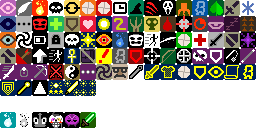
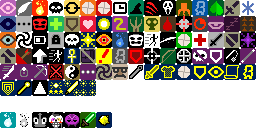
2.2: implemented t1 cleric spell, metaexpression

Changed region(s): [[0.375, 0.875, 0.4375, 1.0]]

diff --git a/core/src/main/java/com/zrp200/rkpd2/actors/hero/spells/Metaexpression.java b/core/src/main/java/com/zrp200/rkpd2/actors/hero/spells/Metaexpression.java
@@ -1,0 +1,118 @@
+package com.zrp200.rkpd2.actors.hero.spells;
+
+import com.zrp200.rkpd2.Assets;
+import com.zrp200.rkpd2.Dungeon;
+import com.zrp200.rkpd2.actors.buffs.Buff;
+import com.zrp200.rkpd2.actors.buffs.FlavourBuff;
+import com.zrp200.rkpd2.actors.hero.Hero;
+import com.zrp200.rkpd2.actors.hero.Talent;
+import com.zrp200.rkpd2.effects.Enchanting;
+import com.zrp200.rkpd2.items.Generator;
+import com.zrp200.rkpd2.items.artifacts.HolyTome;
+import com.zrp200.rkpd2.items.trinkets.Trinket;
+import com.zrp200.rkpd2.messages.Messages;
+import com.zrp200.rkpd2.ui.BuffIndicator;
+import com.zrp200.rkpd2.ui.HeroIcon;
+import com.zrp200.rkpd2.utils.GLog;
+import com.watabou.noosa.audio.Sample;
+import com.watabou.utils.Bundle;
+
+import java.util.Arrays;
+import java.util.List;
+
+public class Metaexpression extends ClericSpell {
+
+    public static final Metaexpression INSTANCE = new Metaexpression();
+
+    public static final int DURATION = 100;
+
+    @Override
+    public int icon() {
+        return HeroIcon.METAEXPRESSION;
+    }
+
+    @Override
+    public void tintIcon(HeroIcon icon) {
+        // todo actual icon
+        if (SpellEmpower.isActive()) icon.tint(0, .33f);
+    }
+
+    @Override
+    public float chargeUse(Hero hero) {
+        return 1 + hero.pointsInTalent(Talent.METAEXPRESSION);
+    }
+
+    @Override
+    public boolean canCast(Hero hero) {
+        return super.canCast(hero) && hero.hasTalent(Talent.METAEXPRESSION);
+    }
+
+    @Override
+    protected List<Object> getDescArgs() {
+        int talentLvl = Dungeon.hero.pointsInTalent(Talent.METAEXPRESSION);
+        if (SpellEmpower.isActive())
+            talentLvl += 2;
+        return Arrays.asList(talentLvl, DURATION);
+    }
+
+    @Override
+    public void onCast(HolyTome tome, Hero hero) {
+        Trinket coolTrinket = (Trinket) Generator.random(Generator.Category.TRINKET);
+        coolTrinket.level(hero.pointsInTalent(Talent.METAEXPRESSION));
+        if (SpellEmpower.isActive()) {
+            coolTrinket.upgrade(2);
+        }
+        coolTrinket.identify();
+        Buff.detach(hero, TrinketHolder.class);
+        TrinketHolder holder = Buff.affect(hero, TrinketHolder.class, DURATION);
+        holder.trinket = coolTrinket;
+
+        Enchanting.show(hero, coolTrinket);
+        Sample.INSTANCE.play(Assets.Sounds.READ);
+        GLog.p(Messages.get(this, "trinket", Messages.titleCase(coolTrinket.title())));
+
+        hero.spend( 1f );
+        hero.busy();
+        hero.sprite.operate(hero.pos);
+
+        onSpellCast(tome, hero);
+    }
+
+    public static class TrinketHolder extends FlavourBuff {
+
+        {
+            type = buffType.POSITIVE;
+        }
+
+        public Trinket trinket;
+
+        @Override
+        public int icon() {
+            return BuffIndicator.TRINKETHOLD;
+        }
+
+        @Override
+        public float iconFadePercent() {
+            return Math.max(0, (DURATION - visualcooldown()) / DURATION);
+        }
+
+        private static final String TRINKET = "trinket";
+
+        @Override
+        public String desc() {
+            return Messages.get(this, "desc", Messages.titleCase(trinket.title()), trinket.statsDesc(), dispTurns());
+        }
+
+        @Override
+        public void storeInBundle(Bundle bundle) {
+            super.storeInBundle(bundle);
+            bundle.put(TRINKET, trinket);
+        }
+
+        @Override
+        public void restoreFromBundle(Bundle bundle) {
+            super.restoreFromBundle(bundle);
+            trinket = (Trinket) bundle.get(TRINKET);
+        }
+    }
+}

diff --git a/core/src/main/java/com/zrp200/rkpd2/scenes/GameScene.java b/core/src/main/java/com/zrp200/rkpd2/scenes/GameScene.java
@@ -36,10 +36,12 @@ import com.zrp200.rkpd2.actors.Actor;
 import com.zrp200.rkpd2.actors.Char;
 import com.zrp200.rkpd2.actors.blobs.Blob;
 import com.zrp200.rkpd2.actors.buffs.AscensionChallenge;
+import com.zrp200.rkpd2.actors.buffs.Buff;
 import com.zrp200.rkpd2.actors.buffs.ChampionEnemy;
 import com.zrp200.rkpd2.actors.hero.Hero;
 import com.zrp200.rkpd2.actors.hero.HeroClass;
 import com.zrp200.rkpd2.actors.hero.Talent;
+import com.zrp200.rkpd2.actors.hero.spells.Metaexpression;
 import com.zrp200.rkpd2.actors.mobs.DemonSpawner;
 import com.zrp200.rkpd2.actors.mobs.Ghoul;
 import com.zrp200.rkpd2.actors.mobs.Mimic;
@@ -54,6 +56,7 @@ import com.zrp200.rkpd2.effects.Ripple;
 import com.zrp200.rkpd2.effects.SpellSprite;
 import com.zrp200.rkpd2.effects.TargetedCell;
 import com.zrp200.rkpd2.items.Ankh;
+import com.zrp200.rkpd2.items.Generator;
 import com.zrp200.rkpd2.items.Heap;
 import com.zrp200.rkpd2.items.Honeypot;
 import com.zrp200.rkpd2.items.Item;
@@ -62,6 +65,7 @@ import com.zrp200.rkpd2.items.journal.Guidebook;
 import com.zrp200.rkpd2.items.potions.Potion;
 import com.zrp200.rkpd2.items.scrolls.ScrollOfTeleportation;
 import com.zrp200.rkpd2.items.trinkets.DimensionalSundial;
+import com.zrp200.rkpd2.items.trinkets.Trinket;
 import com.zrp200.rkpd2.items.trinkets.TrinketCatalyst;
 import com.zrp200.rkpd2.items.weapon.melee.MeleeWeapon;
 import com.zrp200.rkpd2.journal.Bestiary;
@@ -533,6 +537,15 @@ public class GameScene extends PixelScene {
 					if (ch instanceof DriedRose.GhostHero){
 						((DriedRose.GhostHero) ch).sayAppeared();
 					}
+				}
+				if (!Dungeon.hero.heroClass.is(HeroClass.CLERIC) && Dungeon.hero.hasTalent(Talent.METAEXPRESSION)){
+					Trinket coolTrinket = (Trinket) Generator.random(Generator.Category.TRINKET);
+					coolTrinket.level(Dungeon.hero.pointsInTalent(Talent.METAEXPRESSION));
+					coolTrinket.identify();
+					Buff.detach(Dungeon.hero, Metaexpression.TrinketHolder.class);
+					Metaexpression.TrinketHolder holder = Buff.affect(Dungeon.hero, Metaexpression.TrinketHolder.class, Metaexpression.DURATION*2);
+					holder.trinket = coolTrinket;
+					GLog.p(Messages.get(Metaexpression.class, "trinket", Messages.titleCase(coolTrinket.title())));
 				}
 
 				int spawnersAbove = Statistics.spawnersAlive;

diff --git a/core/src/main/java/com/zrp200/rkpd2/items/trinkets/Trinket.java b/core/src/main/java/com/zrp200/rkpd2/items/trinkets/Trinket.java
@@ -22,6 +22,7 @@
 package com.zrp200.rkpd2.items.trinkets;
 
 import com.zrp200.rkpd2.Dungeon;
+import com.zrp200.rkpd2.actors.hero.spells.Metaexpression;
 import com.zrp200.rkpd2.items.Item;
 import com.zrp200.rkpd2.items.Recipe;
 import com.zrp200.rkpd2.journal.Catalog;
@@ -48,6 +49,10 @@ public abstract class Trinket extends Item {
 	protected static int trinketLevel(Class<? extends Trinket> trinketType ){
 		if (Dungeon.hero == null || Dungeon.hero.belongings == null){
 			return -1;
+		}
+
+		if (Dungeon.hero.buff(Metaexpression.TrinketHolder.class) != null){
+			return Dungeon.hero.buff(Metaexpression.TrinketHolder.class).trinket.buffedLvl();
 		}
 
 		Trinket trinket = Dungeon.hero.belongings.getItem(trinketType);

diff --git a/core/src/main/java/com/zrp200/rkpd2/actors/hero/spells/ClericSpell.java b/core/src/main/java/com/zrp200/rkpd2/actors/hero/spells/ClericSpell.java
@@ -208,7 +208,7 @@ public abstract class ClericSpell {
 			spells.add(HolyWard.INSTANCE);
 
 			for (ClericSpell spell : new ClericSpell[]{
-					HolyIntuition.INSTANCE, ShieldOfLight.INSTANCE
+					HolyIntuition.INSTANCE, ShieldOfLight.INSTANCE, Metaexpression.INSTANCE
 			}) if (spell.isVisible(cleric)) spells.add(spell);
 
 		} else if (tier == 2) {
@@ -282,6 +282,7 @@ public abstract class ClericSpell {
 		spells.add(HolyWard.INSTANCE);
 		spells.add(HolyIntuition.INSTANCE);
 		spells.add(ShieldOfLight.INSTANCE);
+		spells.add(Metaexpression.INSTANCE);
 		spells.add(RecallInscription.INSTANCE);
 		spells.add(Sunray.INSTANCE);
 		spells.add(DivineSense.INSTANCE);

diff --git a/core/src/main/java/com/zrp200/rkpd2/ui/BuffIndicator.java b/core/src/main/java/com/zrp200/rkpd2/ui/BuffIndicator.java
@@ -145,6 +145,7 @@ public class BuffIndicator extends Component {
 	public static final int SCAM        = 4_07;
 	public static final int WARP        = 5_07;
 	public static final int HIGHNESS    = 6_07;
+	public static final int TRINKETHOLD = 7_07;
 
     private static BuffIndicator heroInstance;
 	private static BuffIndicator bossInstance;

diff --git a/core/src/main/java/com/zrp200/rkpd2/ui/HeroIcon.java b/core/src/main/java/com/zrp200/rkpd2/ui/HeroIcon.java
@@ -106,7 +106,8 @@ public class HeroIcon extends Image {
 	public static final int
 			LIMIT_BREAK		= 67,
 			DIVINE_ADVENT 	= 68,
-			OMNISMITE		= 69;
+			OMNISMITE		= 69,
+			METAEXPRESSION  = 70;
 
 	//all cleric spells have a separate icon with no background for the action indicator
 	public static final int SPELL_ACTION_OFFSET      = 32;
